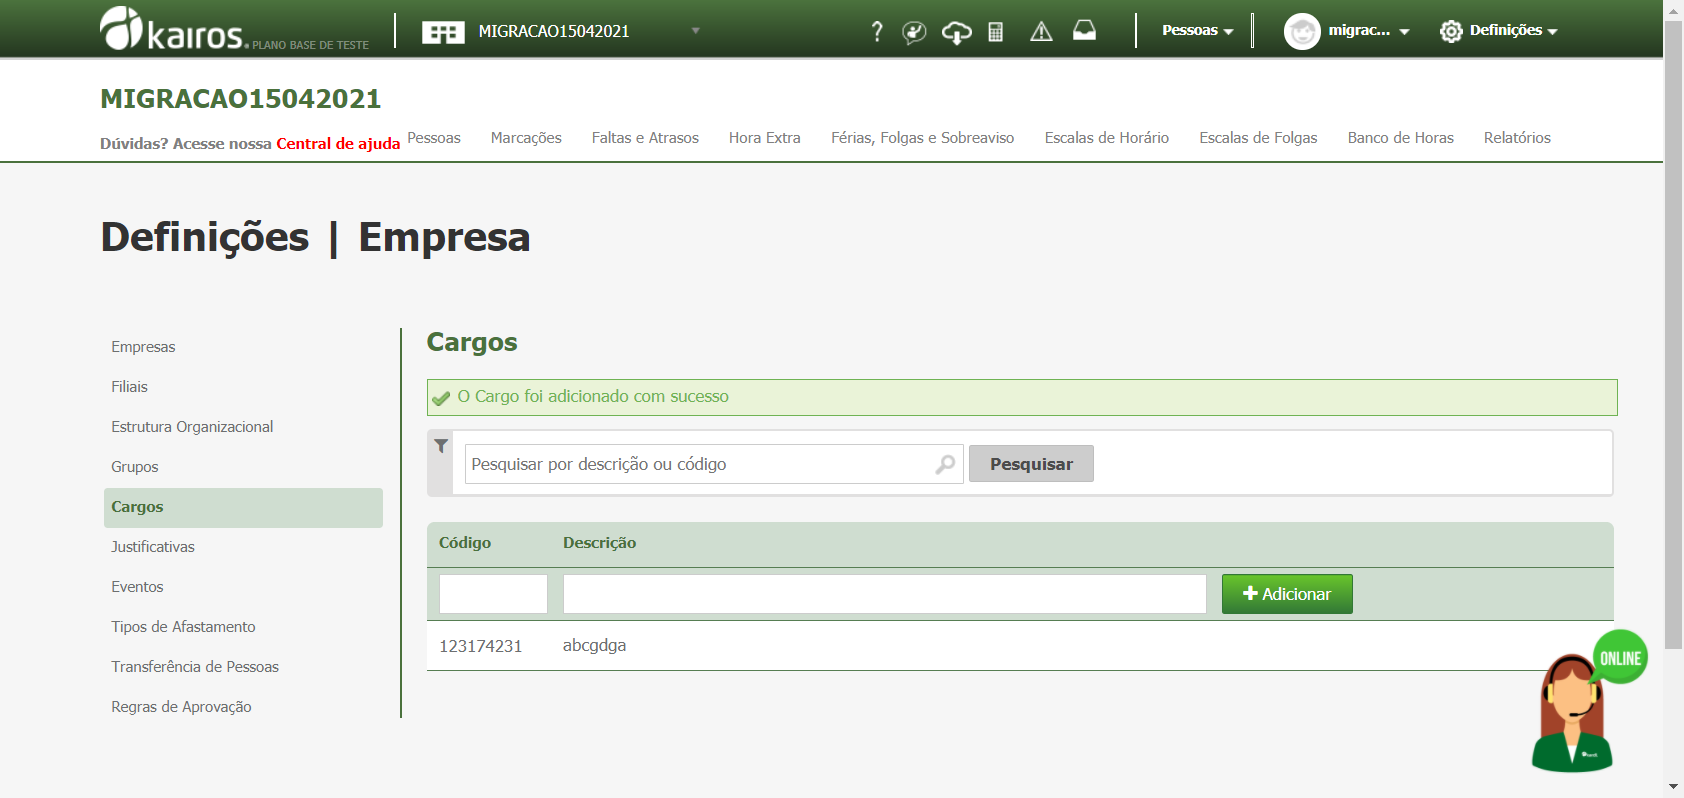
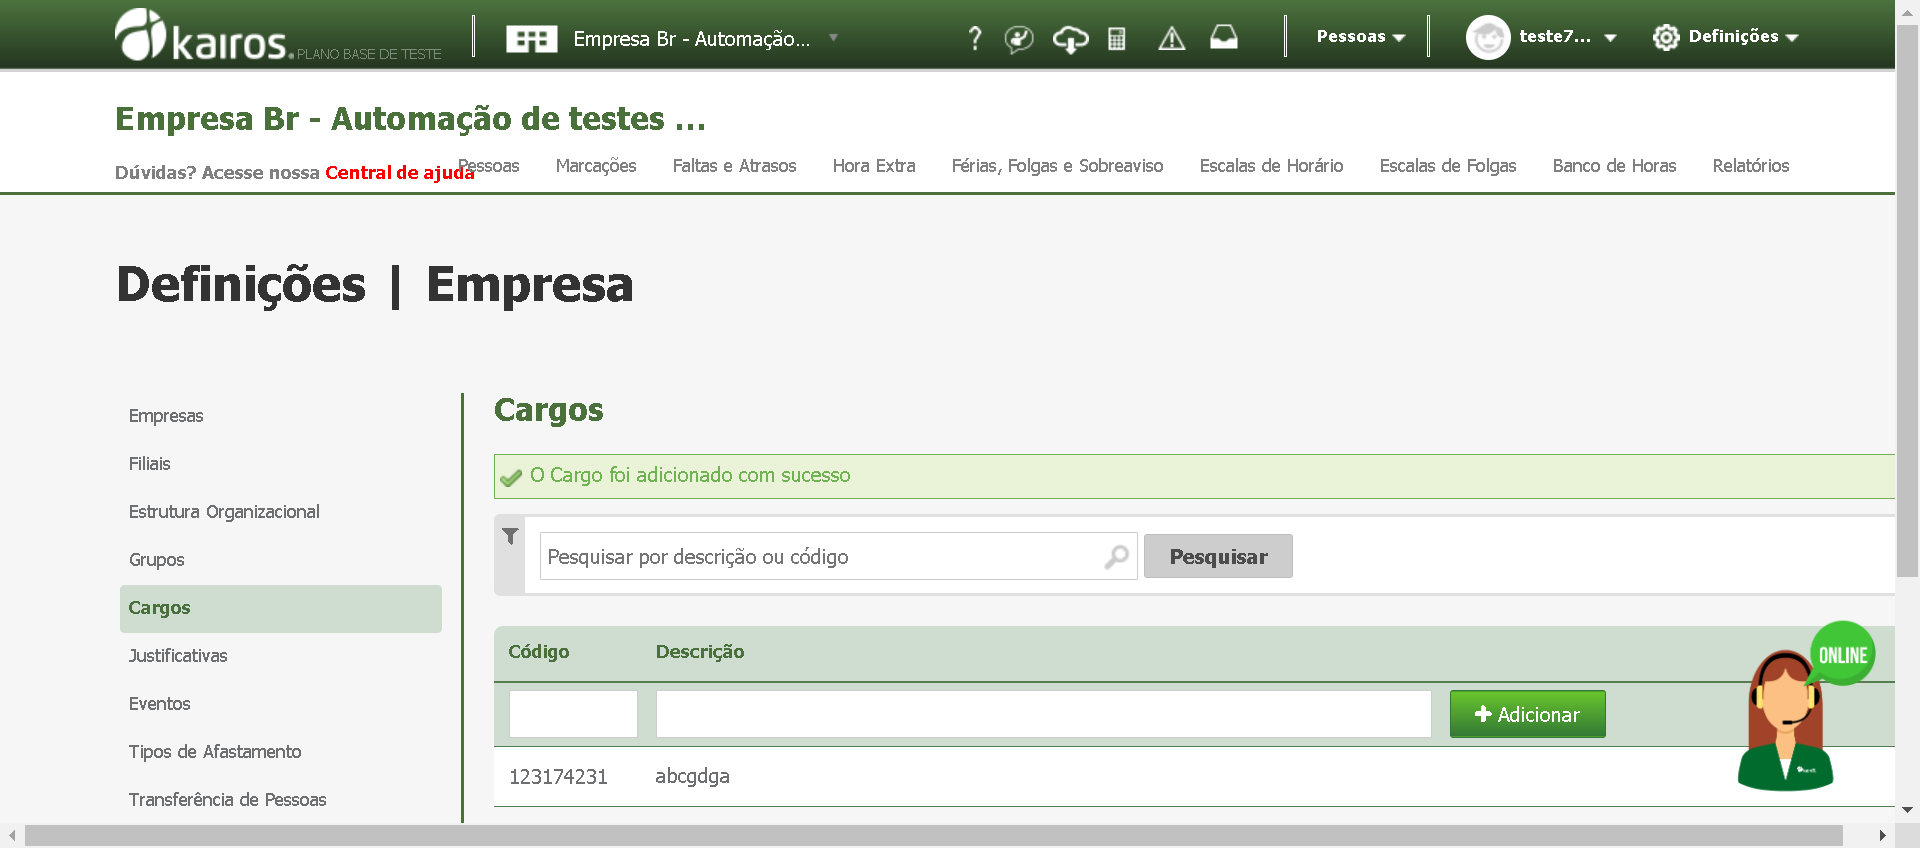
Alteração de URL de acesso ao kairos - aceite de cookies - acesso ao menu de cargos

diff --git a/Kairos_Testes_Integrados_BR_qcmaint/spec/cenarios_Integrados/5-def_emp_cargos_spec.rb b/Kairos_Testes_Integrados_BR_qcmaint/spec/cenarios_Integrados/5-def_emp_cargos_spec.rb
@@ -1,12 +1,24 @@
 describe 'Cargos', :cargos do
   before(:each) do
-    visit '/Dimep/Account/LogOn?ReturnUrl=%2F'
+    visit '/'
+    sleep 2
 
-    fill_in 'LogOnModel_UserName', with: 'migracao15042021@dimep.com'
-    fill_in 'LogOnModel_Password', with: '1'
+    #Aceitando os cookies
+    find('div[class="cc-compliance"]', text: 'Aceitar e fechar').click
+    sleep 2    
+
+    fill_in 'LogOnModel_UserName', with: @login
+    fill_in 'LogOnModel_Password', with: @senha
     click_button 'Entrar'
     
-    visit '/admin/Cargos'
+    # Acessando o cadastro cargos pela navegação de telas
+    selecionar = find('div[id="toggleUserDefinitions"]')
+    selecionar.hover
+    sleep 3
+    
+    find('div[class="pointer DropDownHeaderElement"]', text: 'Empresa').click
+    find('div[id="MenuCargos"]').click
+
   end
 
   it 'CT005 Inserir um novo cargo', :ct005_cargo do

diff --git a/Kairos_Testes_Integrados_BR_qcmaint/spec/cenarios_Integrados/4-def_emp_grupos_spec.rb b/Kairos_Testes_Integrados_BR_qcmaint/spec/cenarios_Integrados/4-def_emp_grupos_spec.rb
@@ -12,7 +12,7 @@ describe 'grupos', :grupos do
     fill_in 'LogOnModel_Password', with: @senha
     click_button 'Entrar'
     
-    # Acessando o cadastro estrutura organizacional pela navegação de telas
+    # Acessando o cadastro grupos pela navegação de telas
     selecionar = find('div[id="toggleUserDefinitions"]')
     selecionar.hover
     sleep 3
